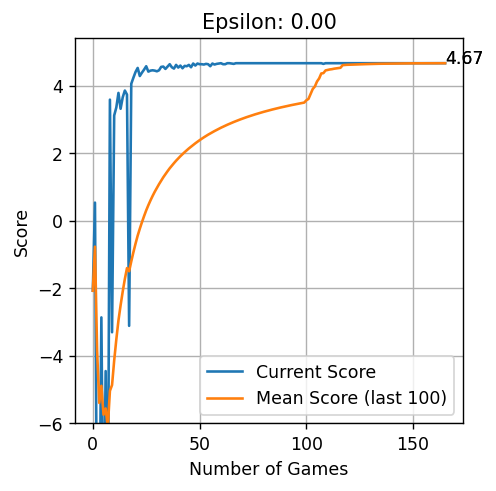
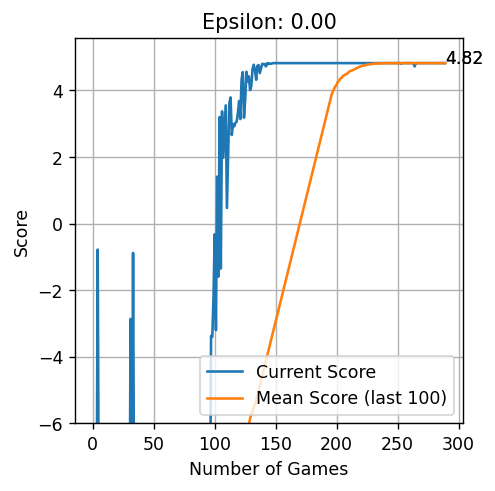
Mais mapas adicionados

diff --git a/player_game/env/utils.py b/player_game/env/utils.py
@@ -260,28 +260,28 @@ def get_grid(cursor):
                             [0, 3, 3, 0, 0, 0, 3, 3, 3, 0],
                             [0, 0, 0, 0, 3, 0, 0 ,0, 0, 0]]).T,
                     #2 OK
-                    array([[0, 3, 0, 3, 0, 3, 0, 3, 0, 3]
-                            [0, 0, 0, 0, 0, 0, 0, 0, 0, 0]
-                            [3, 0, 3, 0, 3, 0, 3, 0, 3, 0]
-                            [0, 0, 0, 0, 0, 0, 0, 0, 0, 0]
-                            [0, 3, 0, 3, 0, 3, 0, 3, 0, 3]
-                            [0, 0, 0, 0, 0, 1, 0, 0, 0, 0]
-                            [3, 0, 3, 0, 3, 0, 3, 0, 3, 0]
-                            [2, 0, 0, 0, 0, 0, 0, 0, 0, 0]
-                            [0, 3, 0, 3, 0, 3, 0, 3, 0, 3]
+                    array([[0, 3, 0, 3, 0, 3, 0, 3, 0, 3],
+                            [0, 0, 0, 0, 0, 0, 0, 0, 0, 0],
+                            [3, 0, 3, 0, 3, 0, 3, 0, 3, 0],
+                            [0, 0, 0, 0, 0, 0, 0, 0, 0, 0],
+                            [0, 3, 0, 3, 0, 3, 0, 3, 0, 3],
+                            [0, 0, 0, 0, 0, 1, 0, 0, 0, 0],
+                            [3, 0, 3, 0, 3, 0, 3, 0, 3, 0],
+                            [2, 0, 0, 0, 0, 0, 0, 0, 0, 0],
+                            [0, 3, 0, 3, 0, 3, 0, 3, 0, 3],
                             [0, 0, 0, 0, 0, 0, 0, 0, 0, 0]]).T,
             
-                    #3
-                    array([[0, 0, 0, 0, 3, 0, 0, 0, 4, 0],
-                           [3, 3, 0, 0, 3, 0, 3, 3, 4, 0],
-                           [0, 0, 0, 4, 3, 0, 3, 3, 3, 0],
-                           [0, 3, 0, 3, 3, 0, 3, 0, 4, 0],
-                           [0, 3, 0, 0, 0, 0, 3, 3, 0, 0],
-                           [0, 3, 0, 0, 3, 3, 0, 0, 0, 0],
-                           [0, 3, 3, 4, 0, 0, 0, 0, 3, 0],
-                           [0, 0, 0, 3, 3, 0, 3, 0, 3, 0],
-                           [3, 3, 0, 0, 0, 0, 3, 0, 0, 0],
-                           [3, 3, 3, 0, 0, 0, 0, 0, 0, 3]]).T,
+                    #3 OK
+                    array([[0, 0, 3, 0, 0, 0, 3, 0, 0, 0],
+                            [0, 0, 0, 0, 3, 0, 0, 0, 3, 0],
+                            [0, 0, 3, 3, 3, 3, 3, 0, 0, 2],
+                            [0, 3, 3, 0, 0, 0, 3, 3, 3, 3],
+                            [0, 3, 0, 0, 3, 0, 0, 0, 3, 0],
+                            [0, 0, 0, 3, 0, 0, 3, 0, 3, 0],
+                            [0, 0, 3, 0, 0, 3, 3, 0, 3, 0],
+                            [0, 3, 0, 0, 3, 3, 0, 0, 3, 0],
+                            [3, 0, 0, 3, 3, 0, 0, 3, 3, 0],
+                            [3, 1, 3, 3, 0, 0, 0, 0, 0, 0]]).T,
                            
                     #4
                     array([[3, 0, 0, 0, 3, 0, 0, 0, 0, 0],
@@ -319,17 +319,17 @@ def get_grid(cursor):
                            [0, 0, 3, 0, 0, 0, 3, 0, 0, 0],
                            [0, 0, 3, 0, 0, 0, 3, 3, 0, 0]]).T,
 
-                    #7
-                    array([[0, 0, 0, 0, 0, 0, 0, 0, 0, 0],
-                           [0, 0, 0, 0, 0, 0, 0, 0, 0, 0],
-                           [0, 3, 3, 3, 0, 3, 3, 3, 0, 0],
-                           [0, 0, 3, 0, 0, 3, 0, 3, 0, 0],
-                           [0, 0, 3, 0, 0, 3, 3, 3, 0, 0],
-                           [0, 0, 3, 0, 0, 3, 0, 3, 0, 0],
-                           [0, 0, 0, 0, 0, 0, 0, 0, 0, 0],
-                           [0, 0, 3, 0, 0, 0, 3, 0, 0, 0],
-                           [0, 0, 3, 0, 0, 0, 3, 0, 0, 0],
-                           [0, 0, 3, 0, 0, 0, 3, 3, 0, 0]]).T,
+                    #7 OK,
+                    array([[0, 3, 3, 0, 3, 0, 3, 0, 3, 3],
+                            [0, 0, 0, 0, 0, 0, 0, 0, 0, 1],
+                            [3, 3, 0, 3, 3, 0, 3, 3, 0, 3],
+                            [3, 0, 0, 3, 0, 0, 0, 3, 0, 0],
+                            [2, 3, 0, 3, 0, 3, 0, 3, 0, 0],
+                            [0, 0, 3, 0, 0, 3, 0, 3, 0, 3],
+                            [0, 3, 0, 3, 0, 3, 0, 0, 3, 3],
+                            [0, 0, 0, 0, 0, 3, 0, 0, 0, 3],
+                            [3, 3, 3, 3, 0, 3, 0, 0, 0, 0],
+                            [0, 0, 0, 0, 0, 3, 3, 0, 0, 0]]).T,
 
                     #8 OK
                     array([[0, 3, 3, 3, 3, 3, 3, 0, 0, 1],
@@ -354,8 +354,7 @@ def get_pos(cursor):
                 (0,0),
                 (0,0),
                 (0,0),
-                (0,0),
-                (0,9),
-                (9,0),]
+                (9,1),
+                (0,9),]
 
     return pos_list[cursor][0], pos_list[cursor][1], pos_list[cursor][0], pos_list[cursor][1]

diff --git a/player_game/env/game.py b/player_game/env/game.py
@@ -295,7 +295,7 @@ class Maze_agent:
                     if event.type == pygame.KEYDOWN:
                         if event.key == pygame.K_RETURN:
                             if self.variance <= 0.1:
-                                self.save_model("player_game/env/model/model3.pickle")
+                                self.save_model("player_game/env/model/model4.pickle")
                             return 0
                         if event.key == pygame.K_SPACE:
                             watch = False
